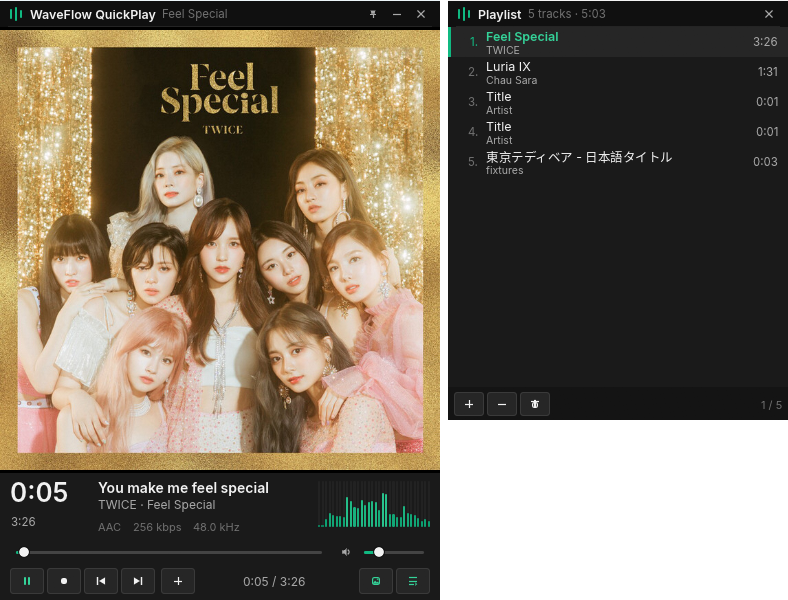
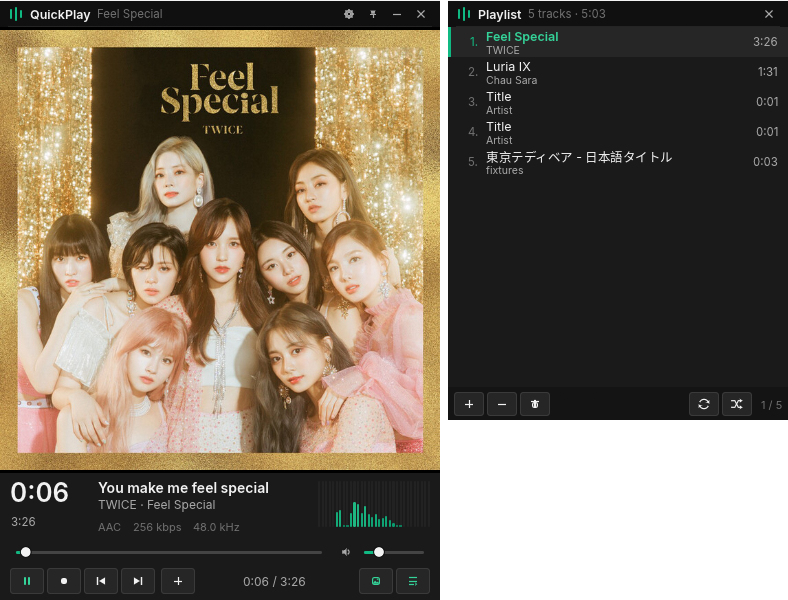
chore(release): 1.1.0
Version 1.1.0, its notes in docs/releases/v1.1.0.md, the screenshots
retaken with the shorter title bar and the repeat and shuffle buttons,
and the docs brought up to date: macOS install and its Gatekeeper step,
the platform badges, waveflow-core's role, QUICKPLAY_WAVEFLOW, the .rpm
and .dmg in the release and issue templates.

diff --git a/README.md b/README.md
@@ -8,12 +8,12 @@
 <p align="center">
   <strong>Double-click. Just listen.</strong>
   <br />
-  A small, fast, native music player for Windows and Linux — powered by WaveFlow.
+  A small, fast, native music player for Windows, Linux and macOS — powered by WaveFlow.
 </p>
 
 <p align="center">
-  <img src="https://img.shields.io/badge/version-1.0.0-10b981?style=flat-square" alt="Version 1.0.0" />
-  <img src="https://img.shields.io/badge/platform-Windows%20%7C%20Linux-lightgrey?style=flat-square" alt="Windows and Linux" />
+  <img src="https://img.shields.io/badge/version-1.1.0-10b981?style=flat-square" alt="Version 1.1.0" />
+  <img src="https://img.shields.io/badge/platform-Windows%20%7C%20Linux%20%7C%20macOS-lightgrey?style=flat-square" alt="Windows, Linux and macOS" />
   <img src="https://img.shields.io/badge/opens%20in-%3C%20300%20ms-10b981?style=flat-square" alt="Opens in under 300 ms" />
   <img src="https://img.shields.io/badge/license-GPL--3.0-green?style=flat-square" alt="GPL-3.0" />
 </p>
@@ -27,7 +27,7 @@
 </p>
 
 <p align="center">
-  <a href="https://github.com/InstaZDLL/waveflow-quickplay/releases/latest"><img src="https://img.shields.io/badge/Download%20QuickPlay-Windows%20%C2%B7%20Linux-10b981?style=for-the-badge" alt="Download QuickPlay for Windows or Linux" /></a>
+  <a href="https://github.com/InstaZDLL/waveflow-quickplay/releases/latest"><img src="https://img.shields.io/badge/Download%20QuickPlay-Windows%20%C2%B7%20Linux%20%C2%B7%20macOS-10b981?style=for-the-badge" alt="Download QuickPlay for Windows, Linux or macOS" /></a>
 </p>
 
 <p align="center">
@@ -58,8 +58,9 @@ Download the package for your system from the [latest release](https://github.co
 
 - **Windows**: `waveflow-quickplay_<version>_x64-setup.exe`. A per-user installer, no administrator rights, that also adds *Play with WaveFlow QuickPlay* and *Add to WaveFlow QuickPlay playlist* to the right-click menu of audio files and folders, and removes them on uninstall. It is signed with WaveFlow's self-signed certificate, so SmartScreen may warn once.
 - **Linux**: a `.deb` for Debian / Ubuntu, an `.rpm` for Fedora / RHEL / openSUSE, or an `.AppImage` for any distribution (make it executable and run it). All three come with the desktop entry, so QuickPlay appears in "Open with" for audio files.
+- **macOS**: `waveflow-quickplay_<version>_macos-universal.dmg`, one app for Apple silicon and Intel Macs, macOS 11 or later. Open it and drag *WaveFlow QuickPlay* to Applications. The app is signed ad hoc, not by an Apple Developer ID, so macOS blocks the first launch: open System Settings › Privacy & Security and choose *Open Anyway* (on macOS 14 and earlier, right-click the app and choose *Open*). It is asked once.
 
-Then double-click a track, or right-click it. That is the whole setup.
+Then double-click a track, or right-click it. That is the whole setup. On macOS, drop files on the player or use its open button.
 
 <details>
 <summary>From the command line</summary>
@@ -203,6 +204,7 @@ cargo install cargo-packager cargo-generate-rpm
 cargo packager --release --formats nsis          # Windows: per-user installer
 cargo packager --release --formats deb,appimage  # Linux
 cat packaging/rpm.toml >> Cargo.toml && cargo generate-rpm   # Linux: .rpm → target/generate-rpm/
+bash packaging/macos/bundle.sh target/release/waveflow-quickplay <version> target/packager   # macOS: .app + .dmg
 ```
 
 The installers come out in `target/packager/`, the `.rpm` in
@@ -214,7 +216,7 @@ desktop entry. Releases are built by `.github/workflows/release.yml` from a
 
 ## Architecture
 
-QuickPlay is Rust + egui, under 8 000 lines including the language tables,
+QuickPlay is Rust + egui, under 9 000 lines including the language tables,
 on top of `waveflow-core`, the crate that holds WaveFlow's codec registry
 (symphonia + libopus), DSD converter, tag reader and, behind its `playback`
 feature, the decoding the desktop plays through: open a track, decode it
@@ -284,10 +286,12 @@ The working set is dominated by the OpenGL driver and the decoded cover
 
 ## Known limitations
 
-- **macOS** runs from the bare binary (checked on macOS 26 / Apple silicon:
-  playback, the docked playlist, minimize and restore from the Dock, the
-  single instance). There is no `.app` bundle or installer yet, and file
-  associations there need one; `--register` says so and does nothing.
+- **macOS** ships as an app in a disk image, signed ad hoc, so Gatekeeper
+  asks once before the first launch. It has no file associations: Finder
+  hands a file to an app through an "open documents" event that egui-winit
+  does not deliver, so double-clicking a track in Finder cannot open it in
+  QuickPlay yet. Drop files on the window, use the open dialog or the
+  command line; `--register` says so and does nothing.
 - **Wayland** does not let an application position its windows, so the
   playlist opens where the compositor puts it and does not follow the
   player there. Under XWayland and everywhere else it docks.
@@ -316,7 +320,7 @@ part agrees to the [Code of Conduct](CODE_OF_CONDUCT.md).
 | --- | --- | --- | --- |
 | `assets/fonts/Inter-Regular.ttf`, `Inter-SemiBold.ttf` | The Inter Project Authors | https://github.com/rsms/inter | OFL-1.1 (`assets/fonts/OFL-Inter.txt`) |
 | `assets/fonts/NotoSansCJKsc-Regular.otf` | Google, Adobe (Noto CJK) | https://github.com/notofonts/noto-cjk | OFL-1.1 (`assets/fonts/OFL-NotoSansCJK.txt`) |
-| `assets/icon-128.png`, `assets/icon.ico` | WaveFlow | `src-tauri/crates/app/icons/` | GPL-3.0-only (project) |
+| `assets/icon-128.png`, `assets/icon.ico`, `assets/icon.icns` | WaveFlow | `src-tauri/crates/app/icons/` | GPL-3.0-only (project) |
 
 The screenshots show *Feel Special* by TWICE, used for illustration only.
 

diff --git a/docs/releases/v1.1.0.md b/docs/releases/v1.1.0.md
@@ -1,0 +1,46 @@
+<p align="center">
+  <img src="https://github.com/InstaZDLL/waveflow-quickplay/raw/main/assets/icon-128.png" width="96" alt="WaveFlow QuickPlay" />
+</p>
+
+# WaveFlow QuickPlay 1.1.0
+
+A macOS app, repeat and shuffle in the playlist, a hand-over to WaveFlow, cleaner DSD, and the player now decodes through exactly the same code as WaveFlow Desktop.
+
+## New
+
+- **macOS app**: a disk image with one app for Apple silicon and Intel Macs, macOS 11 or later. Until now macOS meant building from source.
+- **Repeat and shuffle** in the playlist toolbar. One press on repeat loops the playlist, a second loops the current track, a third turns it off. Shuffle plays every track once before any comes round again, and Previous walks back through what played. Both are remembered, and `R` and `H` toggle them from the keyboard.
+- **Continue in WaveFlow**: a button with the WaveFlow logo hands the queue, the current track, the position and the play or pause state over to WaveFlow Desktop, then QuickPlay closes. WaveFlow picks up at the same spot. The button appears only when WaveFlow Desktop **2.0** or later is installed, so it stays hidden until that version is out.
+- **Long lyric lines keep up with the song**: a line wider than its column holds for a moment, then scrolls so that its end is on screen before the next line starts.
+- **A shorter title bar** that reads *QuickPlay* beside the WaveFlow logo, which leaves more room for the track's title.
+
+## Fixed
+
+- **DSD no longer hisses.** DSF and DFF files are converted with WaveFlow Desktop's 256-tap filter instead of 64 taps, which let the DSD shaping noise through as a steady hiss in the background.
+- **Explorer menu order**: *Play with WaveFlow QuickPlay* now comes above *Add to WaveFlow QuickPlay playlist*. The installer removes the old entry.
+- **A brief audio stall no longer stops the track.** A buffer underrun, such as the one macOS causes while it checks a new app on its first launch, was taken for a lost output device: the engine was released and the track stopped with an error. Playback now carries on.
+- **A slow file no longer freezes the controls.** A track on a network share or a disk that is spinning up opens in the background, and Stop, another track or closing the window answer at once. Files on a network share are read ahead, so a seek there does not wait for the whole transfer.
+
+## Under the hood
+
+QuickPlay now plays through `waveflow-core`'s playback module, the decoding WaveFlow Desktop itself uses, instead of a copy of it. A decoding fix made for the desktop reaches QuickPlay with the next core update. What QuickPlay keeps of its own is the small transport around it: the decoder thread, the lock-free ring and the audio callback.
+
+## Install
+
+- **Windows**: download `waveflow-quickplay_1.1.0_x64-setup.exe`. It installs for the current user without administrator rights and registers the context-menu entries. Run it over 1.0.0 to upgrade; your settings live in their own file and are kept.
+- **Linux**: the `.deb` for Debian and Ubuntu, the `.rpm` for Fedora, RHEL and openSUSE, or the `.AppImage` for any distribution (make it executable and run it). All three carry the desktop entry, so QuickPlay appears in "Open with" for audio files.
+- **macOS**: download `waveflow-quickplay_1.1.0_macos-universal.dmg`, open it and drag *WaveFlow QuickPlay* to Applications. The app is signed ad hoc, not by an Apple Developer ID, so macOS blocks the first launch: open System Settings › Privacy & Security and choose *Open Anyway* (on macOS 14 and earlier, right-click the app and choose *Open*). It is asked once.
+
+SHA-256 checksums are in `SHA256SUMS-windows.txt`, `SHA256SUMS-linux.txt` and `SHA256SUMS-macos.txt`.
+
+> [!NOTE]
+> The Windows installer is signed with WaveFlow's self-signed certificate, so Windows may still show a SmartScreen warning on first launch.
+
+## Known limitations
+
+- On macOS, Finder cannot open a track in QuickPlay with a double-click or "Open with" yet: it sends files through an event the window toolkit does not deliver. Drop files on the player or use its open button.
+- **Continue in WaveFlow** needs WaveFlow Desktop 2.0.0-beta.1 or later, read from the install's metadata. The button stays hidden for an older WaveFlow, for one whose version cannot be read (such as an AppImage put on `PATH` by hand), and for the Flatpak build, whose sandbox cannot see the hand-over file.
+- On Wayland the playlist window opens where the compositor places it and does not follow the player; the protocol does not let an application position its windows.
+- The output device is the system default, opened in shared mode.
+
+**Full changelog**: https://github.com/InstaZDLL/waveflow-quickplay/compare/v1.0.0...v1.1.0

diff --git a/docs/ARCHITECTURE.md b/docs/ARCHITECTURE.md
@@ -33,7 +33,8 @@ waveflow-quickplay
    ├── src/integration.rs --register / --unregister (registry verbs, .desktop file)
    ├── src/platform.rs    Windows: owner link between the playlist window and the player
    ├── src/ui/            theme, painted icons, widgets, player pane, playlist window, settings page
-   └── packaging/         NSIS template and Linux desktop entry for cargo-packager
+   └── packaging/         NSIS template and Linux desktop entry for cargo-packager,
+                          the .rpm definition, the macOS Info.plist and bundle script
 ```
 
 The UI never touches the engine or the queue directly: every pane reads a
@@ -102,6 +103,9 @@ UI thread (egui)  ──AudioCmd (crossbeam)──►  decoder thread (std)  ─
   track, so a slow previous load cannot flip the state of the new one.
 - The engine is created lazily on the first load, released on exit, and
   released on an output-stream error so the next play reopens the device.
+  An xrun is not one: the stream recovers from it by itself, and macOS
+  reports one whenever the process stalls (the first launch of a new build
+  while it is scanned), so it is logged and playback carries on.
 - The spectrum analyser (`src/audio/spectrum.rs`, the desktop's FFT and band
   ladder without the Tauri emit) runs on the decoder thread and timestamps
   every frame with the output position it belongs to; the UI shows the
@@ -115,10 +119,12 @@ exclusive output, device selection, radio / remote sources, analytics.
 
 The main window has a custom title bar (drag, settings, pin, minimize,
 close) and resize edges: `with_decorations(false)` plus
-`ViewportCommand::StartDrag` / `BeginResize`. Compact mode locks the height
-to the controls block; artwork mode adds the cover above it and makes the
-window freely resizable; the settings page takes the content area in both
-modes.
+`ViewportCommand::StartDrag` / `BeginResize`. The bar reads "QuickPlay"
+beside the WaveFlow logo; the OS title stays "WaveFlow QuickPlay", which
+is how the playlist window finds the player on Windows. Compact mode
+locks the height to the controls block; artwork mode adds the cover above
+it and makes the window freely resizable; the settings page takes the
+content area in both modes.
 
 The playlist is a second native window (`show_viewport_immediate`) docked
 beside the player, as PotPlayer's playlist is:
@@ -209,5 +215,6 @@ each other on Windows.
 app write a PNG of the player window after start, for displays that cannot
 be grabbed from outside such as GNOME on Wayland or an ssh session on
 macOS. `RUST_LOG=debug` turns the log up. The repository's CI runs fmt,
-clippy and the tests on Windows and Ubuntu; releases are built from a `v*`
-tag by `.github/workflows/release.yml`.
+clippy and the tests on Windows, Ubuntu and macOS; releases are built from
+a `v*` tag by `.github/workflows/release.yml`, the macOS disk image by
+`packaging/macos/bundle.sh` around a universal binary, signed ad hoc.

diff --git a/CONTRIBUTING.md b/CONTRIBUTING.md
@@ -2,8 +2,8 @@
 
 Thanks for wanting to help. QuickPlay is the small player next to
 [WaveFlow](https://github.com/InstaZDLL/WaveFlow): **Rust + egui/eframe** on
-top of `waveflow-core`, the desktop app's codec and tag crate. WaveFlow's
-[CONTRIBUTING.md](https://github.com/InstaZDLL/WaveFlow/blob/main/CONTRIBUTING.md)
+top of `waveflow-core`, the desktop app's codec, tag and playback-decoding
+crate. WaveFlow's [CONTRIBUTING.md](https://github.com/InstaZDLL/WaveFlow/blob/main/CONTRIBUTING.md)
 is the canonical guide for the WaveFlow family; this file adds what is
 specific to QuickPlay.
 
@@ -42,6 +42,9 @@ cargo build --config 'patch."https://github.com/InstaZDLL/WaveFlow".waveflow-cor
 `QUICKPLAY_CAPTURE_AFTER_MS`) writes a PNG of the player window after
 start, which is how the window is checked on displays that cannot be
 grabbed from outside (GNOME on Wayland, an ssh session on macOS).
+`QUICKPLAY_WAVEFLOW=<path>` points the "Continue in WaveFlow" button at
+another WaveFlow executable, such as a development build, and skips the
+version check that otherwise hides it for WaveFlow before 2.0.0-beta.1.
 
 ## Before you open a PR
 
@@ -93,7 +96,9 @@ test checks the placeholders.
 
 Version in `Cargo.toml`, notes in `docs/releases/v<version>.md`, then a
 `v<version>` tag: `.github/workflows/release.yml` builds the signed Windows
-installer, the `.deb` and the AppImage and publishes the GitHub release.
+installer, the `.deb`, the `.rpm`, the AppImage and the macOS disk image
+(a universal app signed ad hoc, `packaging/macos/bundle.sh`) and publishes
+the GitHub release.
 Only the maintainers tag.
 
 ## Reporting bugs and security issues

diff --git a/.github/SECURITY.md b/.github/SECURITY.md
@@ -29,7 +29,7 @@ Your report should include:
 - a clear description of the issue;
 - the expected impact on users or their files;
 - the affected version, platform, and installation mode (installer, `.deb`,
-  AppImage, built from source);
+  `.rpm`, AppImage, `.dmg`, built from source);
 - the affected surface: a file format, the single-instance socket, the
   file-manager registration, the installer, a user flow;
 - detailed reproduction steps, with a sample file when the issue is in a
